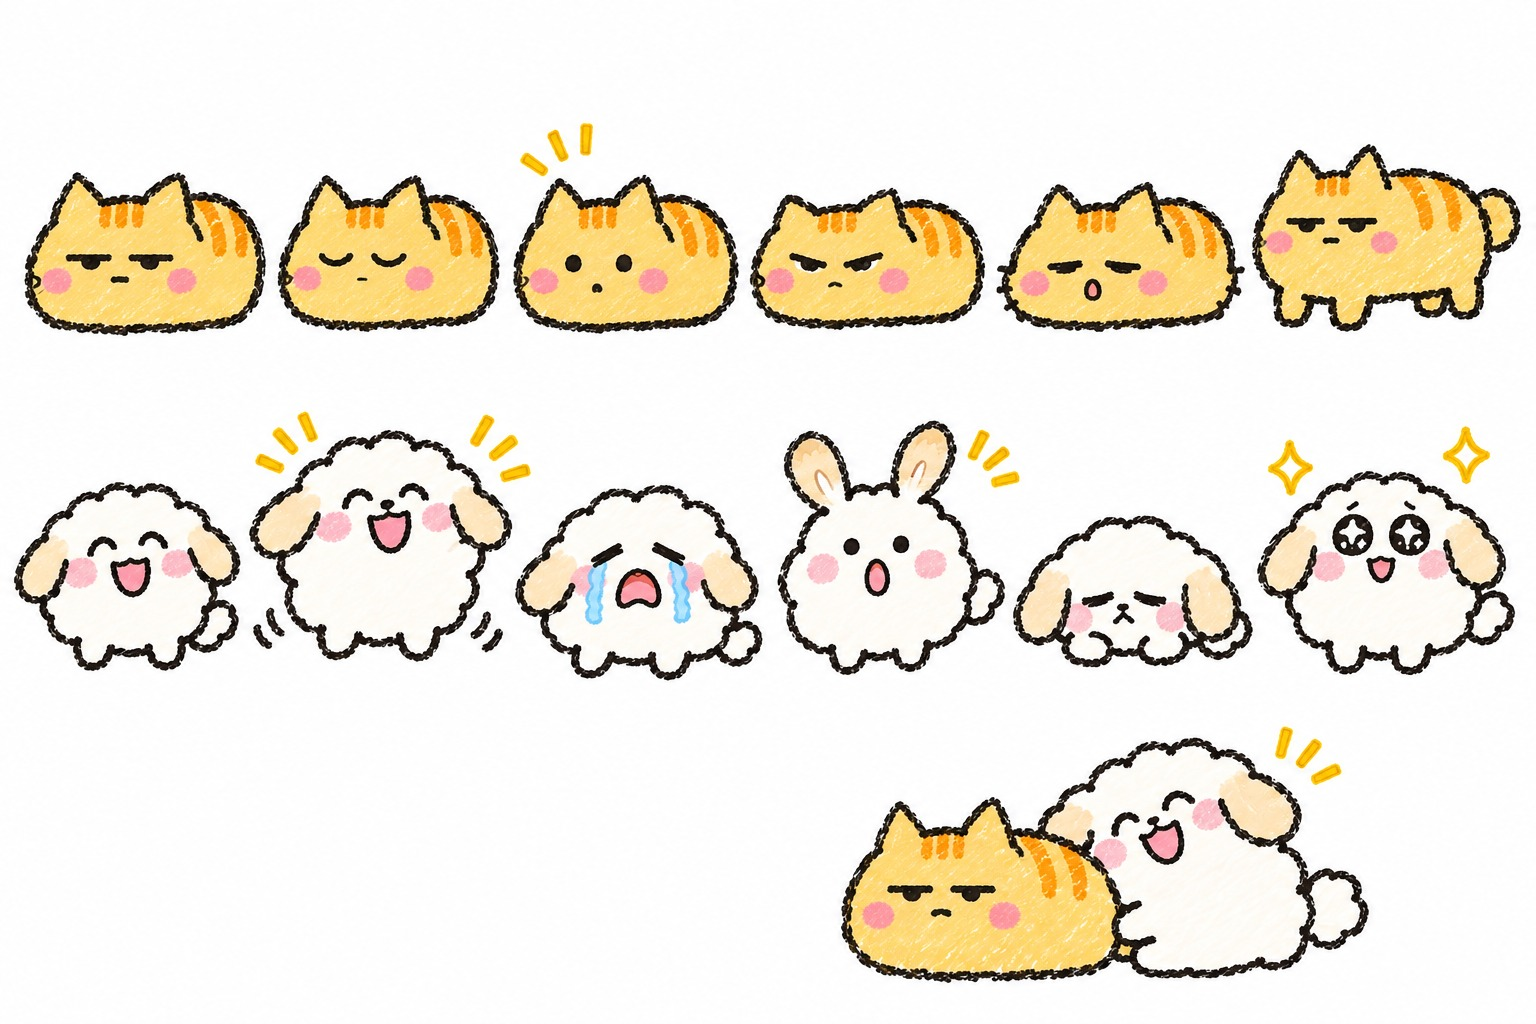
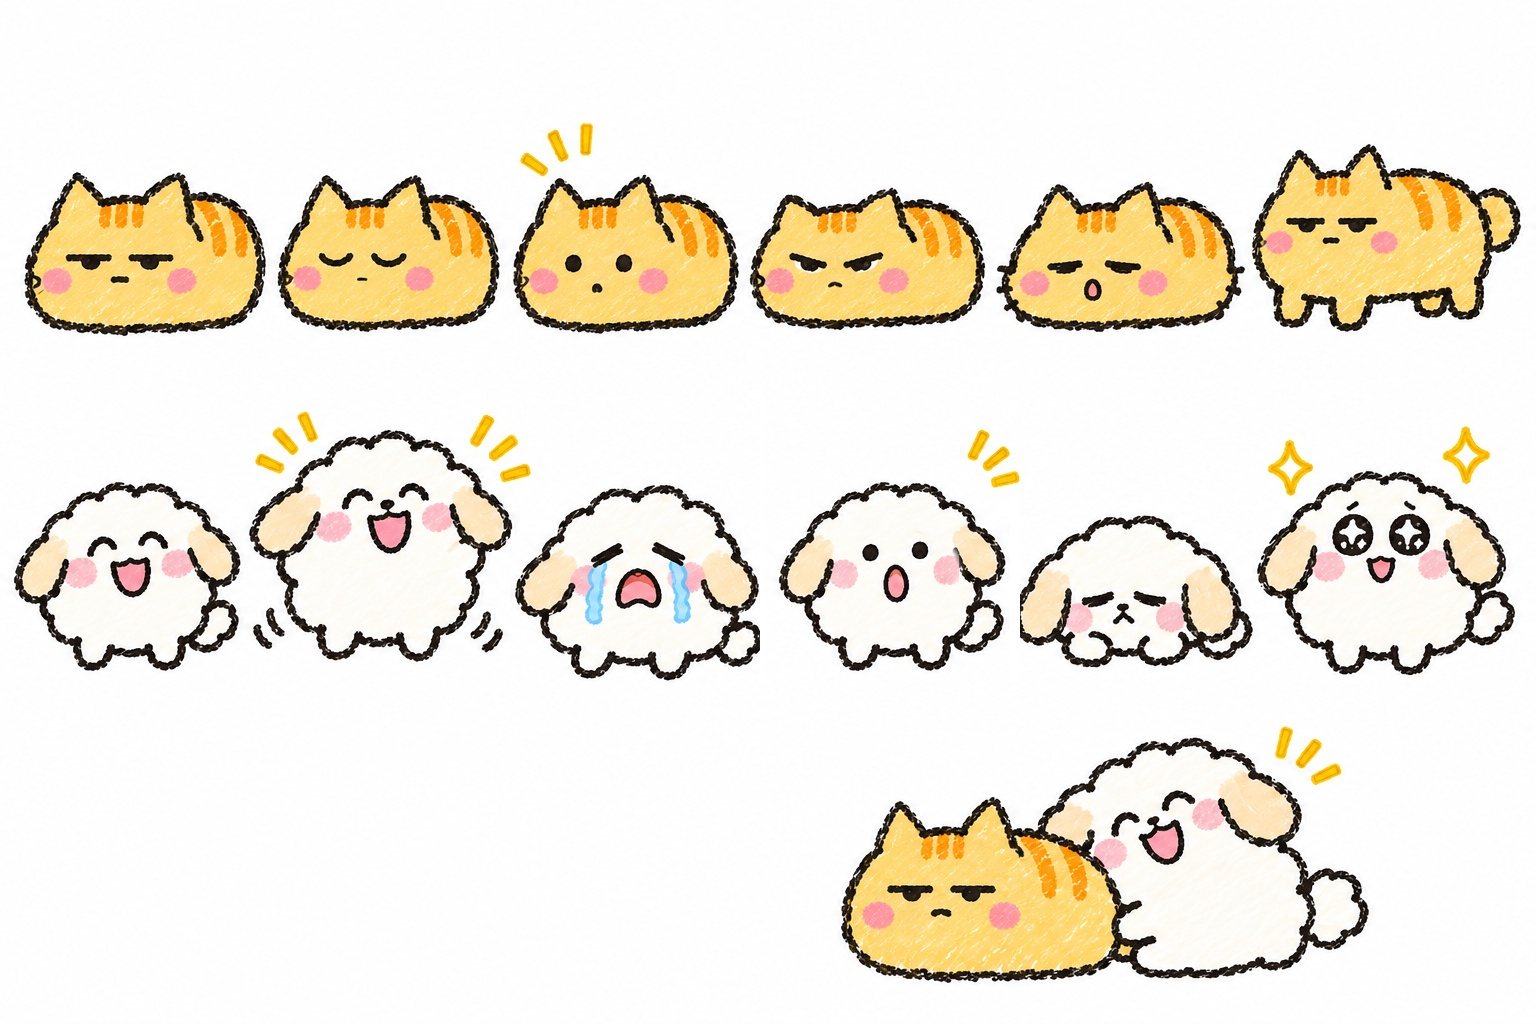
식빵찐빵 캐릭터 시트: 찐빵 놀람 표정의 토끼 귀를 처진 귀로 수정
Claude-Session: https://claude.ai/code/session_013eU9uq1P2Bb4dDg9KpxaiF

Changed region(s): [[0.5, 0.4062, 0.6875, 0.6562]]

diff --git a/CLAUDE.md b/CLAUDE.md
@@ -24,6 +24,6 @@
 - 혜택·할인 정보 게시물(통신사·카드·브랜드 이벤트·쿠폰 등 모든 혜택)은 스크린데일리가 아닌 **별도 채널 '혜택알람'(@hyetaek.alarm)** 이다. `channel: deals` 를 꼭 적는다 (이름·아이디·해시태그·마지막 장이 그 채널 것으로 바뀜, 업로드 계정도 다름).
 - 혜택알람은 **혜택 하나당 캐러셀 3장 고정**: 01 사진 표지(`cover_style: photo`, **표지 고정 지침 `docs/cover_guide.md` 를 따른다**: 원본 사진 그대로, 좌측 하단 Pretendard Black, 첫 줄 통신사·멤버십·브랜드 흰색(10자 이하)·다음 1~2줄 핵심 혜택 노란색 #FFE500(줄당 12자 이하), 최대 3줄·25자, 글자는 최대한 크게(로고·상품 일부 가려도 됨), 외곽선·그림자·스티커 없음) → 02 혜택 받는 법(`type: steps`, 배경은 표지 사진을 흐리고 어둡게 + 흰 글씨, STEP 안에 기간(시작~마감, 예: '11/19~11/30 전국 매장 방문') 필수, STEP 3개 + 그 아래 채널 아이콘·'팔로우하고 혜택알람 받아보세요' 한 줄(자동, `outro.inline_follow`). 기간·조건·출처는 caption 에) → 03 팔로우 카드(모든 캐러셀 공용: 검정 배경, 프로필과 같은 오렌지 채널 아이콘만 색). 01·02장에는 브랜드 색 배경을 쓰지 않는다(어떤 사진에도 어울리게). 페이지 번호는 넣지 않는다. 01·02장 하단 가운데에 채널 주소 워터마크(퍼가기 방지), 03장은 큰 아이디가 있어 생략. 공식 확인 안 된 조건은 카드에 쓰지 않는다. 표지 사진은 사람 얼굴이 나오지 않는 이미지를 쓰고(초상권), 사진 출처는 카드에 찍지 않고 운영자가 게시글(소개)에 직접 적는다(작가·라이선스 원문은 img/sources.json). 다른 할인 계정의 디자인·문구·스티커를 그대로 따라 하지 않는다. 게시글(caption)에는 이모지를 넣지 않고 간결하게: 제목 한 줄 → 기간·대상·방법 → 세부 조건 확인 안내 → '팔로우하고 혜택알람 받아보세요'. 이미지 연출·출처 안내 문구(credits)는 게시글에 넣지 않는다. 예시 `drafts/deal_sangmu_1119/`, 새 게시물은 `python -m screendaily new 날짜 12:00 --deal 브랜드` (혜택알람 업데이트 시간은 매일 낮 12시, 스크린데일리는 평일 18시) (템플릿 `examples/deal_template/`)
 - **인스타툰 릴스**는 `instatoon` 스킬로 만든다 (주제 → 콘티·ChatGPT 프롬프트 → 사용자가 그린 6컷 조립). 캐릭터 기준 이미지 `assets/brand/toon_character.jpg`, 카드 `type: toon`·`cover_style: toon`, 말풍선 위치 `bubble_pos`.
-- **식빵찐빵**(일상공감·위로 인스타툰 채널)은 `channel: sikppang` 을 적는다. 캐릭터 식빵(무표정 치즈 고양이, 네모 식빵 자세)·찐빵(오버하는 하얀 털뭉치 강아지, 귀는 항상 처짐), 기준 그림 `assets/brand/toon_duo_sheet.jpg`, 크레파스 낙서 그림체. 템플릿 고정: 위·아래 크림색 상자(내레이션) + 가운데 그림 + 흰 말풍선, 마지막 장 `outro.style: toon_follow`(같은 틀 + 크레파스 배경 + 둘이 기댄 그림). 그림 안 손글씨 방식(`toon_text: inside`)은 쓰지 않는다. 예시 `drafts/toon_comfort/`
+- **식빵찐빵**(일상공감·위로 인스타툰 채널)은 `channel: sikppang` 을 적는다. 캐릭터 식빵(무표정 치즈 고양이, 네모 식빵 자세)·찐빵(오버하는 하얀 털뭉치 강아지, 귀는 항상 처짐), 기준 그림 `assets/brand/toon_duo_sheet.png`(찐빵 놀람 표정 토끼 귀 수정본), 크레파스 낙서 그림체. 템플릿 고정: 위·아래 크림색 상자(내레이션) + 가운데 그림 + 흰 말풍선, 마지막 장 `outro.style: toon_follow`(같은 틀 + 크레파스 배경 + 둘이 기댄 그림). 그림 안 손글씨 방식(`toon_text: inside`)은 쓰지 않는다. 예시 `drafts/toon_comfort/`
 - 초안·시안은 `drafts/` 에 `draft: true` 로 만든다. `queue/` 에 넣으면 예약 시간에 자동 업로드된다.
 - 자동 업로드는 main 브랜치의 `queue/` 만 본다.
